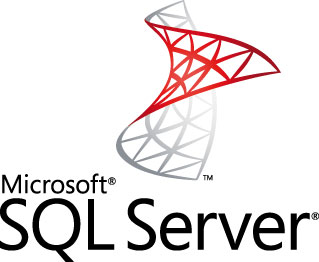
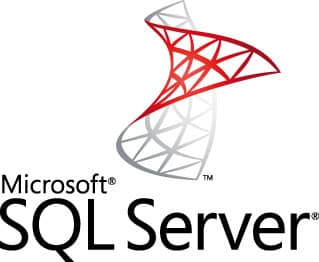
compress image

diff --git a/css/font/font-lora.css b/css/font/font-lora.css
@@ -1,0 +1,160 @@
+/* cyrillic-ext */
+@font-face {
+  font-family: 'Lora';
+  font-style: italic;
+  font-weight: 400;
+  src: local('Lora Italic'), local('Lora-Italic'), url(https://fonts.gstatic.com/s/lora/v12/0QIhMX1D_JOuMw_LLPtLp_A.woff2) format('woff2');
+  unicode-range: U+0460-052F, U+1C80-1C88, U+20B4, U+2DE0-2DFF, U+A640-A69F, U+FE2E-FE2F;
+}
+/* cyrillic */
+@font-face {
+  font-family: 'Lora';
+  font-style: italic;
+  font-weight: 400;
+  src: local('Lora Italic'), local('Lora-Italic'), url(https://fonts.gstatic.com/s/lora/v12/0QIhMX1D_JOuMw_LJftLp_A.woff2) format('woff2');
+  unicode-range: U+0400-045F, U+0490-0491, U+04B0-04B1, U+2116;
+}
+/* vietnamese */
+@font-face {
+  font-family: 'Lora';
+  font-style: italic;
+  font-weight: 400;
+  src: local('Lora Italic'), local('Lora-Italic'), url(https://fonts.gstatic.com/s/lora/v12/0QIhMX1D_JOuMw_LLvtLp_A.woff2) format('woff2');
+  unicode-range: U+0102-0103, U+0110-0111, U+1EA0-1EF9, U+20AB;
+}
+/* latin-ext */
+@font-face {
+  font-family: 'Lora';
+  font-style: italic;
+  font-weight: 400;
+  src: local('Lora Italic'), local('Lora-Italic'), url(https://fonts.gstatic.com/s/lora/v12/0QIhMX1D_JOuMw_LL_tLp_A.woff2) format('woff2');
+  unicode-range: U+0100-024F, U+0259, U+1E00-1EFF, U+2020, U+20A0-20AB, U+20AD-20CF, U+2113, U+2C60-2C7F, U+A720-A7FF;
+}
+/* latin */
+@font-face {
+  font-family: 'Lora';
+  font-style: italic;
+  font-weight: 400;
+  src: local('Lora Italic'), local('Lora-Italic'), url(https://fonts.gstatic.com/s/lora/v12/0QIhMX1D_JOuMw_LIftL.woff2) format('woff2');
+  unicode-range: U+0000-00FF, U+0131, U+0152-0153, U+02BB-02BC, U+02C6, U+02DA, U+02DC, U+2000-206F, U+2074, U+20AC, U+2122, U+2191, U+2193, U+2212, U+2215, U+FEFF, U+FFFD;
+}
+/* cyrillic-ext */
+@font-face {
+  font-family: 'Lora';
+  font-style: italic;
+  font-weight: 700;
+  src: local('Lora Bold Italic'), local('Lora-BoldItalic'), url(https://fonts.gstatic.com/s/lora/v12/0QIiMX1D_JOuMw_Dmt5eldGry70.woff2) format('woff2');
+  unicode-range: U+0460-052F, U+1C80-1C88, U+20B4, U+2DE0-2DFF, U+A640-A69F, U+FE2E-FE2F;
+}
+/* cyrillic */
+@font-face {
+  font-family: 'Lora';
+  font-style: italic;
+  font-weight: 700;
+  src: local('Lora Bold Italic'), local('Lora-BoldItalic'), url(https://fonts.gstatic.com/s/lora/v12/0QIiMX1D_JOuMw_Dmt5enNGry70.woff2) format('woff2');
+  unicode-range: U+0400-045F, U+0490-0491, U+04B0-04B1, U+2116;
+}
+/* vietnamese */
+@font-face {
+  font-family: 'Lora';
+  font-style: italic;
+  font-weight: 700;
+  src: local('Lora Bold Italic'), local('Lora-BoldItalic'), url(https://fonts.gstatic.com/s/lora/v12/0QIiMX1D_JOuMw_Dmt5el9Gry70.woff2) format('woff2');
+  unicode-range: U+0102-0103, U+0110-0111, U+1EA0-1EF9, U+20AB;
+}
+/* latin-ext */
+@font-face {
+  font-family: 'Lora';
+  font-style: italic;
+  font-weight: 700;
+  src: local('Lora Bold Italic'), local('Lora-BoldItalic'), url(https://fonts.gstatic.com/s/lora/v12/0QIiMX1D_JOuMw_Dmt5eltGry70.woff2) format('woff2');
+  unicode-range: U+0100-024F, U+0259, U+1E00-1EFF, U+2020, U+20A0-20AB, U+20AD-20CF, U+2113, U+2C60-2C7F, U+A720-A7FF;
+}
+/* latin */
+@font-face {
+  font-family: 'Lora';
+  font-style: italic;
+  font-weight: 700;
+  src: local('Lora Bold Italic'), local('Lora-BoldItalic'), url(https://fonts.gstatic.com/s/lora/v12/0QIiMX1D_JOuMw_Dmt5emNGr.woff2) format('woff2');
+  unicode-range: U+0000-00FF, U+0131, U+0152-0153, U+02BB-02BC, U+02C6, U+02DA, U+02DC, U+2000-206F, U+2074, U+20AC, U+2122, U+2191, U+2193, U+2212, U+2215, U+FEFF, U+FFFD;
+}
+/* cyrillic-ext */
+@font-face {
+  font-family: 'Lora';
+  font-style: normal;
+  font-weight: 400;
+  src: local('Lora Regular'), local('Lora-Regular'), url(https://fonts.gstatic.com/s/lora/v12/0QIvMX1D_JOuMwf7I-NP.woff2) format('woff2');
+  unicode-range: U+0460-052F, U+1C80-1C88, U+20B4, U+2DE0-2DFF, U+A640-A69F, U+FE2E-FE2F;
+}
+/* cyrillic */
+@font-face {
+  font-family: 'Lora';
+  font-style: normal;
+  font-weight: 400;
+  src: local('Lora Regular'), local('Lora-Regular'), url(https://fonts.gstatic.com/s/lora/v12/0QIvMX1D_JOuMw77I-NP.woff2) format('woff2');
+  unicode-range: U+0400-045F, U+0490-0491, U+04B0-04B1, U+2116;
+}
+/* vietnamese */
+@font-face {
+  font-family: 'Lora';
+  font-style: normal;
+  font-weight: 400;
+  src: local('Lora Regular'), local('Lora-Regular'), url(https://fonts.gstatic.com/s/lora/v12/0QIvMX1D_JOuMwX7I-NP.woff2) format('woff2');
+  unicode-range: U+0102-0103, U+0110-0111, U+1EA0-1EF9, U+20AB;
+}
+/* latin-ext */
+@font-face {
+  font-family: 'Lora';
+  font-style: normal;
+  font-weight: 400;
+  src: local('Lora Regular'), local('Lora-Regular'), url(https://fonts.gstatic.com/s/lora/v12/0QIvMX1D_JOuMwT7I-NP.woff2) format('woff2');
+  unicode-range: U+0100-024F, U+0259, U+1E00-1EFF, U+2020, U+20A0-20AB, U+20AD-20CF, U+2113, U+2C60-2C7F, U+A720-A7FF;
+}
+/* latin */
+@font-face {
+  font-family: 'Lora';
+  font-style: normal;
+  font-weight: 400;
+  src: local('Lora Regular'), local('Lora-Regular'), url(https://fonts.gstatic.com/s/lora/v12/0QIvMX1D_JOuMwr7Iw.woff2) format('woff2');
+  unicode-range: U+0000-00FF, U+0131, U+0152-0153, U+02BB-02BC, U+02C6, U+02DA, U+02DC, U+2000-206F, U+2074, U+20AC, U+2122, U+2191, U+2193, U+2212, U+2215, U+FEFF, U+FFFD;
+}
+/* cyrillic-ext */
+@font-face {
+  font-family: 'Lora';
+  font-style: normal;
+  font-weight: 700;
+  src: local('Lora Bold'), local('Lora-Bold'), url(https://fonts.gstatic.com/s/lora/v12/0QIgMX1D_JOuO7HeNtFumsmv.woff2) format('woff2');
+  unicode-range: U+0460-052F, U+1C80-1C88, U+20B4, U+2DE0-2DFF, U+A640-A69F, U+FE2E-FE2F;
+}
+/* cyrillic */
+@font-face {
+  font-family: 'Lora';
+  font-style: normal;
+  font-weight: 700;
+  src: local('Lora Bold'), local('Lora-Bold'), url(https://fonts.gstatic.com/s/lora/v12/0QIgMX1D_JOuO7HeNthumsmv.woff2) format('woff2');
+  unicode-range: U+0400-045F, U+0490-0491, U+04B0-04B1, U+2116;
+}
+/* vietnamese */
+@font-face {
+  font-family: 'Lora';
+  font-style: normal;
+  font-weight: 700;
+  src: local('Lora Bold'), local('Lora-Bold'), url(https://fonts.gstatic.com/s/lora/v12/0QIgMX1D_JOuO7HeNtNumsmv.woff2) format('woff2');
+  unicode-range: U+0102-0103, U+0110-0111, U+1EA0-1EF9, U+20AB;
+}
+/* latin-ext */
+@font-face {
+  font-family: 'Lora';
+  font-style: normal;
+  font-weight: 700;
+  src: local('Lora Bold'), local('Lora-Bold'), url(https://fonts.gstatic.com/s/lora/v12/0QIgMX1D_JOuO7HeNtJumsmv.woff2) format('woff2');
+  unicode-range: U+0100-024F, U+0259, U+1E00-1EFF, U+2020, U+20A0-20AB, U+20AD-20CF, U+2113, U+2C60-2C7F, U+A720-A7FF;
+}
+/* latin */
+@font-face {
+  font-family: 'Lora';
+  font-style: normal;
+  font-weight: 700;
+  src: local('Lora Bold'), local('Lora-Bold'), url(https://fonts.gstatic.com/s/lora/v12/0QIgMX1D_JOuO7HeNtxumg.woff2) format('woff2');
+  unicode-range: U+0000-00FF, U+0131, U+0152-0153, U+02BB-02BC, U+02C6, U+02DA, U+02DC, U+2000-206F, U+2074, U+20AC, U+2122, U+2191, U+2193, U+2212, U+2215, U+FEFF, U+FFFD;
+}

diff --git a/index.html b/index.html
@@ -15,8 +15,8 @@
 
   <!-- Custom fonts for this template -->
   <link href="vendor/font-awesome/css/font-awesome.min.css" rel="stylesheet" type="text/css">
-  <link href="https://fonts.googleapis.com/css?family=Lora:400,700,400italic,700italic" rel="stylesheet" type="text/css">
-  <link href='https://fonts.googleapis.com/css?family=Cabin:700' rel='stylesheet' type='text/css'>
+  <link href="./css/font/font-lora.css" rel="stylesheet" type="text/css">
+  <link href='./css/font/font-cabin.css' rel='stylesheet' type='text/css'>
 
   <!-- Custom styles for this template -->
   <link href="css/grayscale.min.css" rel="stylesheet">
@@ -138,7 +138,6 @@
       </div>
     </div>
     <br>
-
   </section>
 
   <!-- Contact Section -->
@@ -192,9 +191,6 @@
 
   <!-- Plugin JavaScript -->
   <script src="vendor/jquery-easing/jquery.easing.min.js"></script>
-
-  <!-- Google Maps API Key - Use your own API key to enable the map feature. More information on the Google Maps API can be found at https://developers.google.com/maps/ -->
-  <script src="https://maps.googleapis.com/maps/api/js?key=AIzaSyCRngKslUGJTlibkQ3FkfTxj3Xss1UlZDA&sensor=false"></script>
 
   <!-- Custom scripts for this template -->
   <script src="js/grayscale.min.js"></script>

diff --git a/css/font/font-cabin.css b/css/font/font-cabin.css
@@ -1,0 +1,24 @@
+/* vietnamese */
+@font-face {
+  font-family: 'Cabin';
+  font-style: normal;
+  font-weight: 700;
+  src: local('Cabin Bold'), local('Cabin-Bold'), url(https://fonts.gstatic.com/s/cabin/v12/u-480qWljRw-PdeL2uhquylWeg.woff2) format('woff2');
+  unicode-range: U+0102-0103, U+0110-0111, U+1EA0-1EF9, U+20AB;
+}
+/* latin-ext */
+@font-face {
+  font-family: 'Cabin';
+  font-style: normal;
+  font-weight: 700;
+  src: local('Cabin Bold'), local('Cabin-Bold'), url(https://fonts.gstatic.com/s/cabin/v12/u-480qWljRw-PdeL2uhruylWeg.woff2) format('woff2');
+  unicode-range: U+0100-024F, U+0259, U+1E00-1EFF, U+2020, U+20A0-20AB, U+20AD-20CF, U+2113, U+2C60-2C7F, U+A720-A7FF;
+}
+/* latin */
+@font-face {
+  font-family: 'Cabin';
+  font-style: normal;
+  font-weight: 700;
+  src: local('Cabin Bold'), local('Cabin-Bold'), url(https://fonts.gstatic.com/s/cabin/v12/u-480qWljRw-PdeL2uhluyk.woff2) format('woff2');
+  unicode-range: U+0000-00FF, U+0131, U+0152-0153, U+02BB-02BC, U+02C6, U+02DA, U+02DC, U+2000-206F, U+2074, U+20AC, U+2122, U+2191, U+2193, U+2212, U+2215, U+FEFF, U+FFFD;
+}
